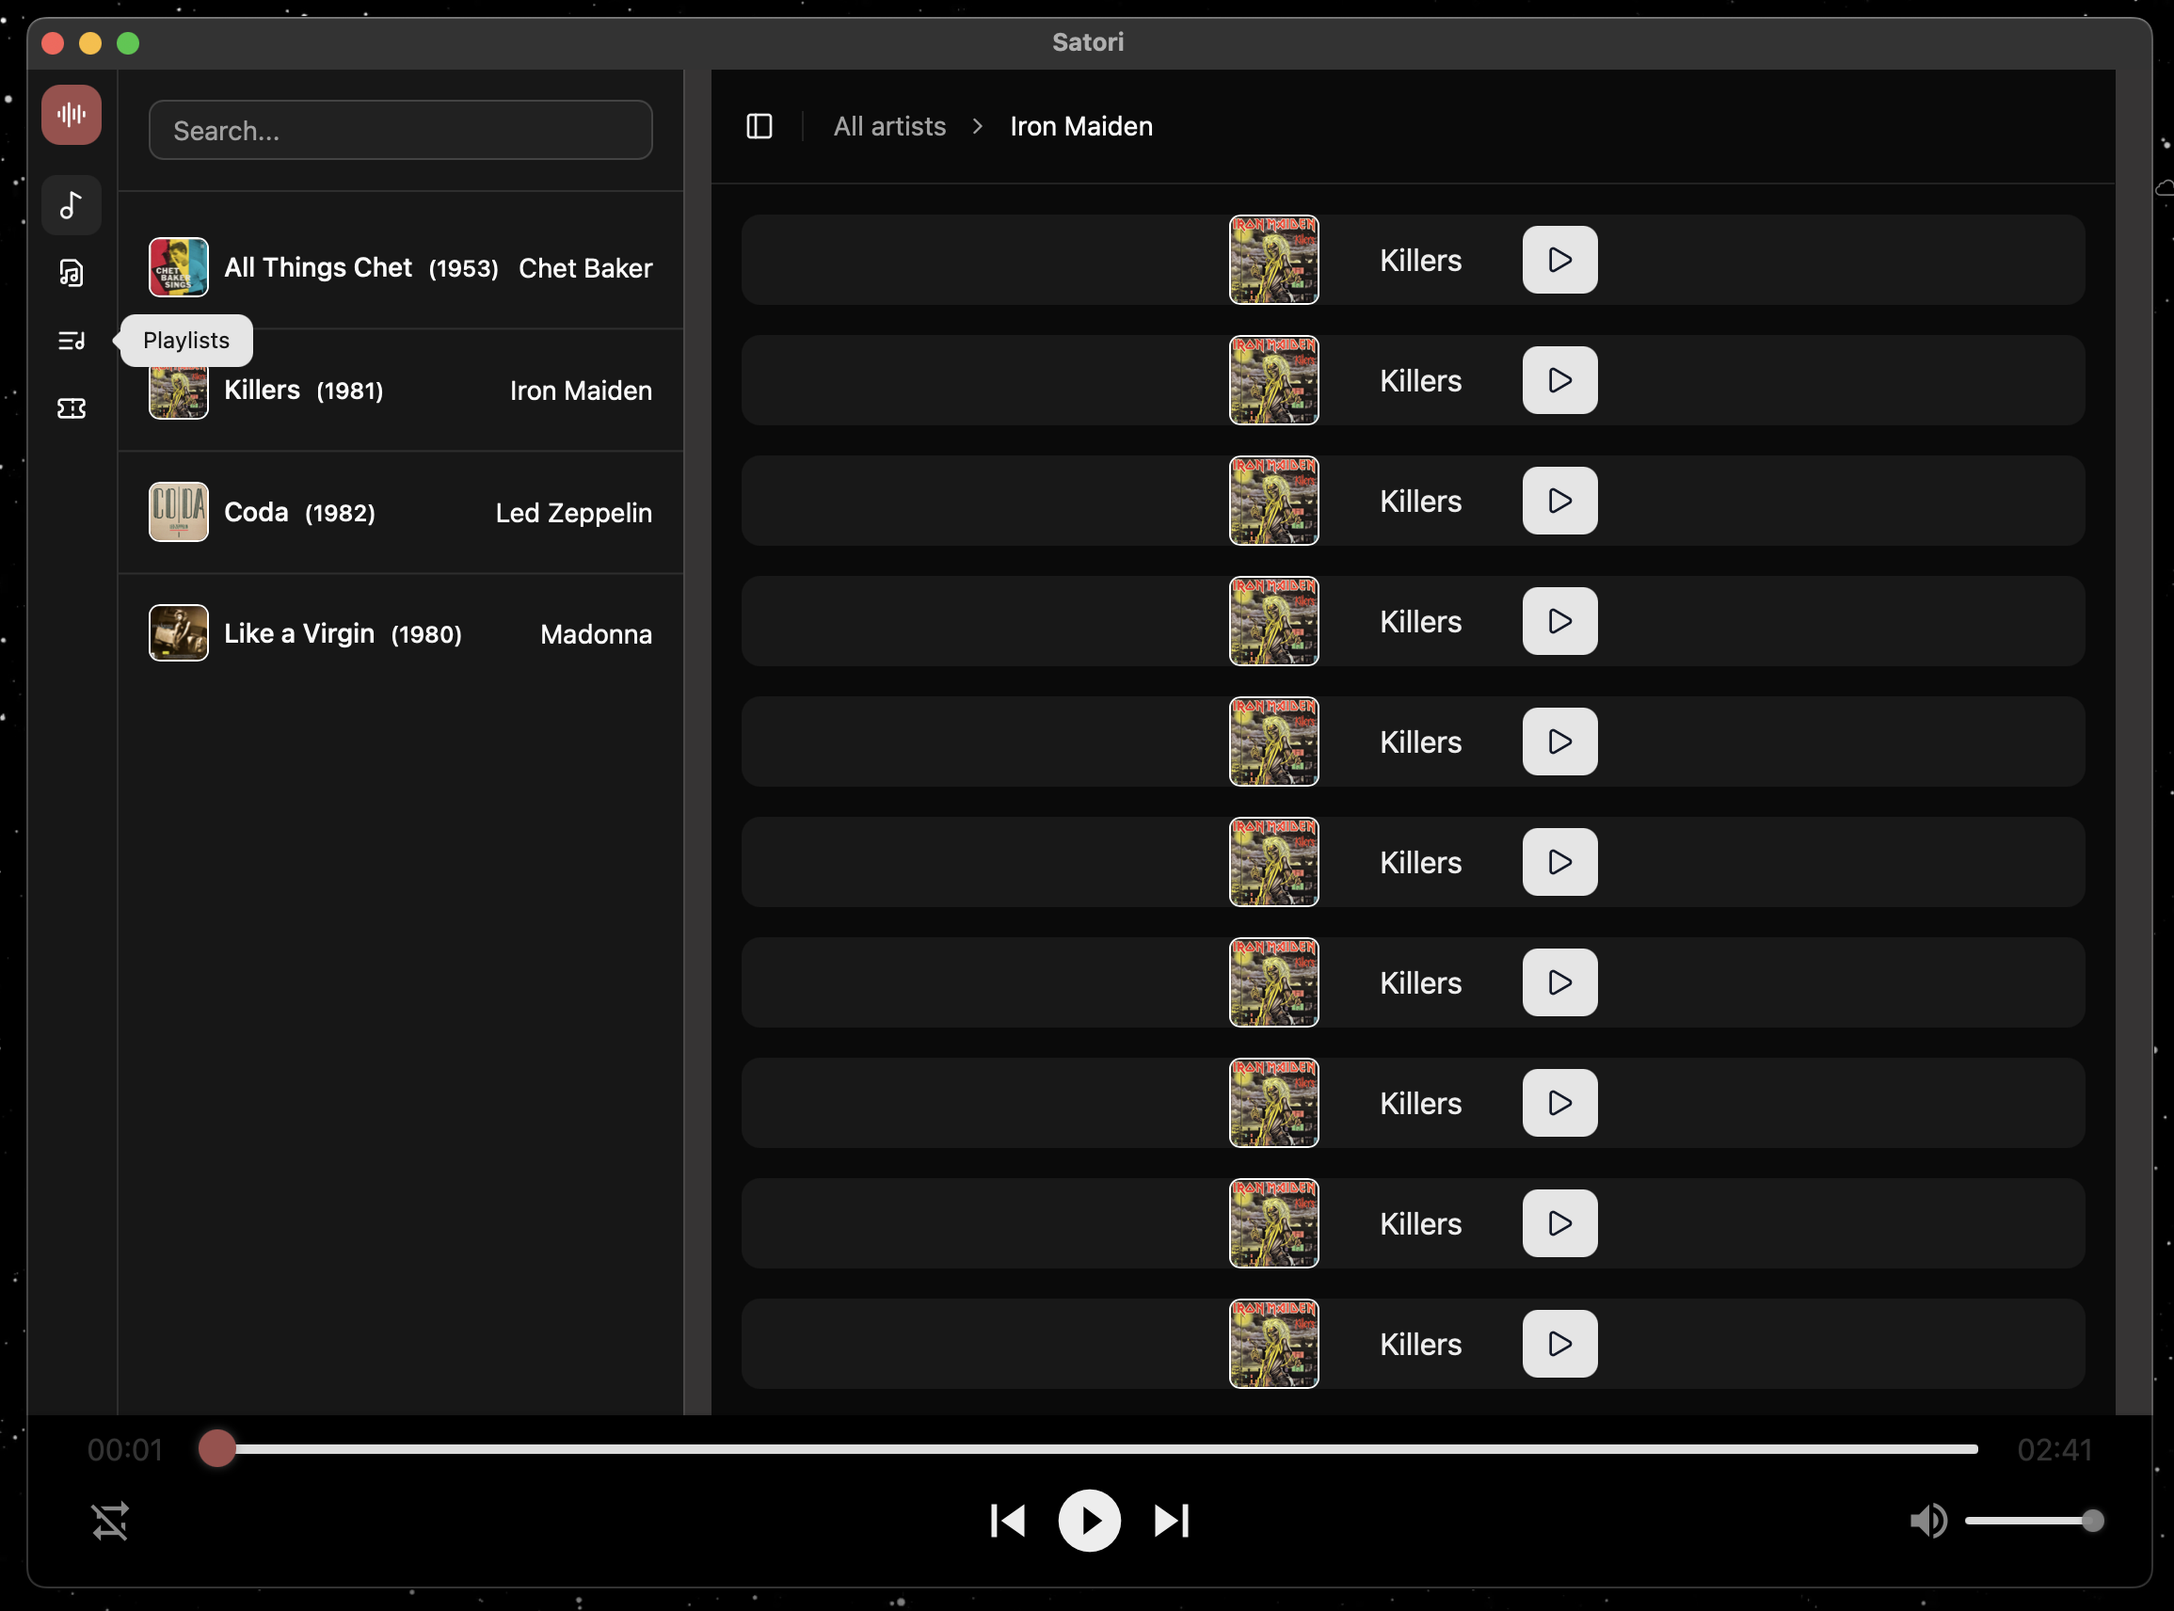
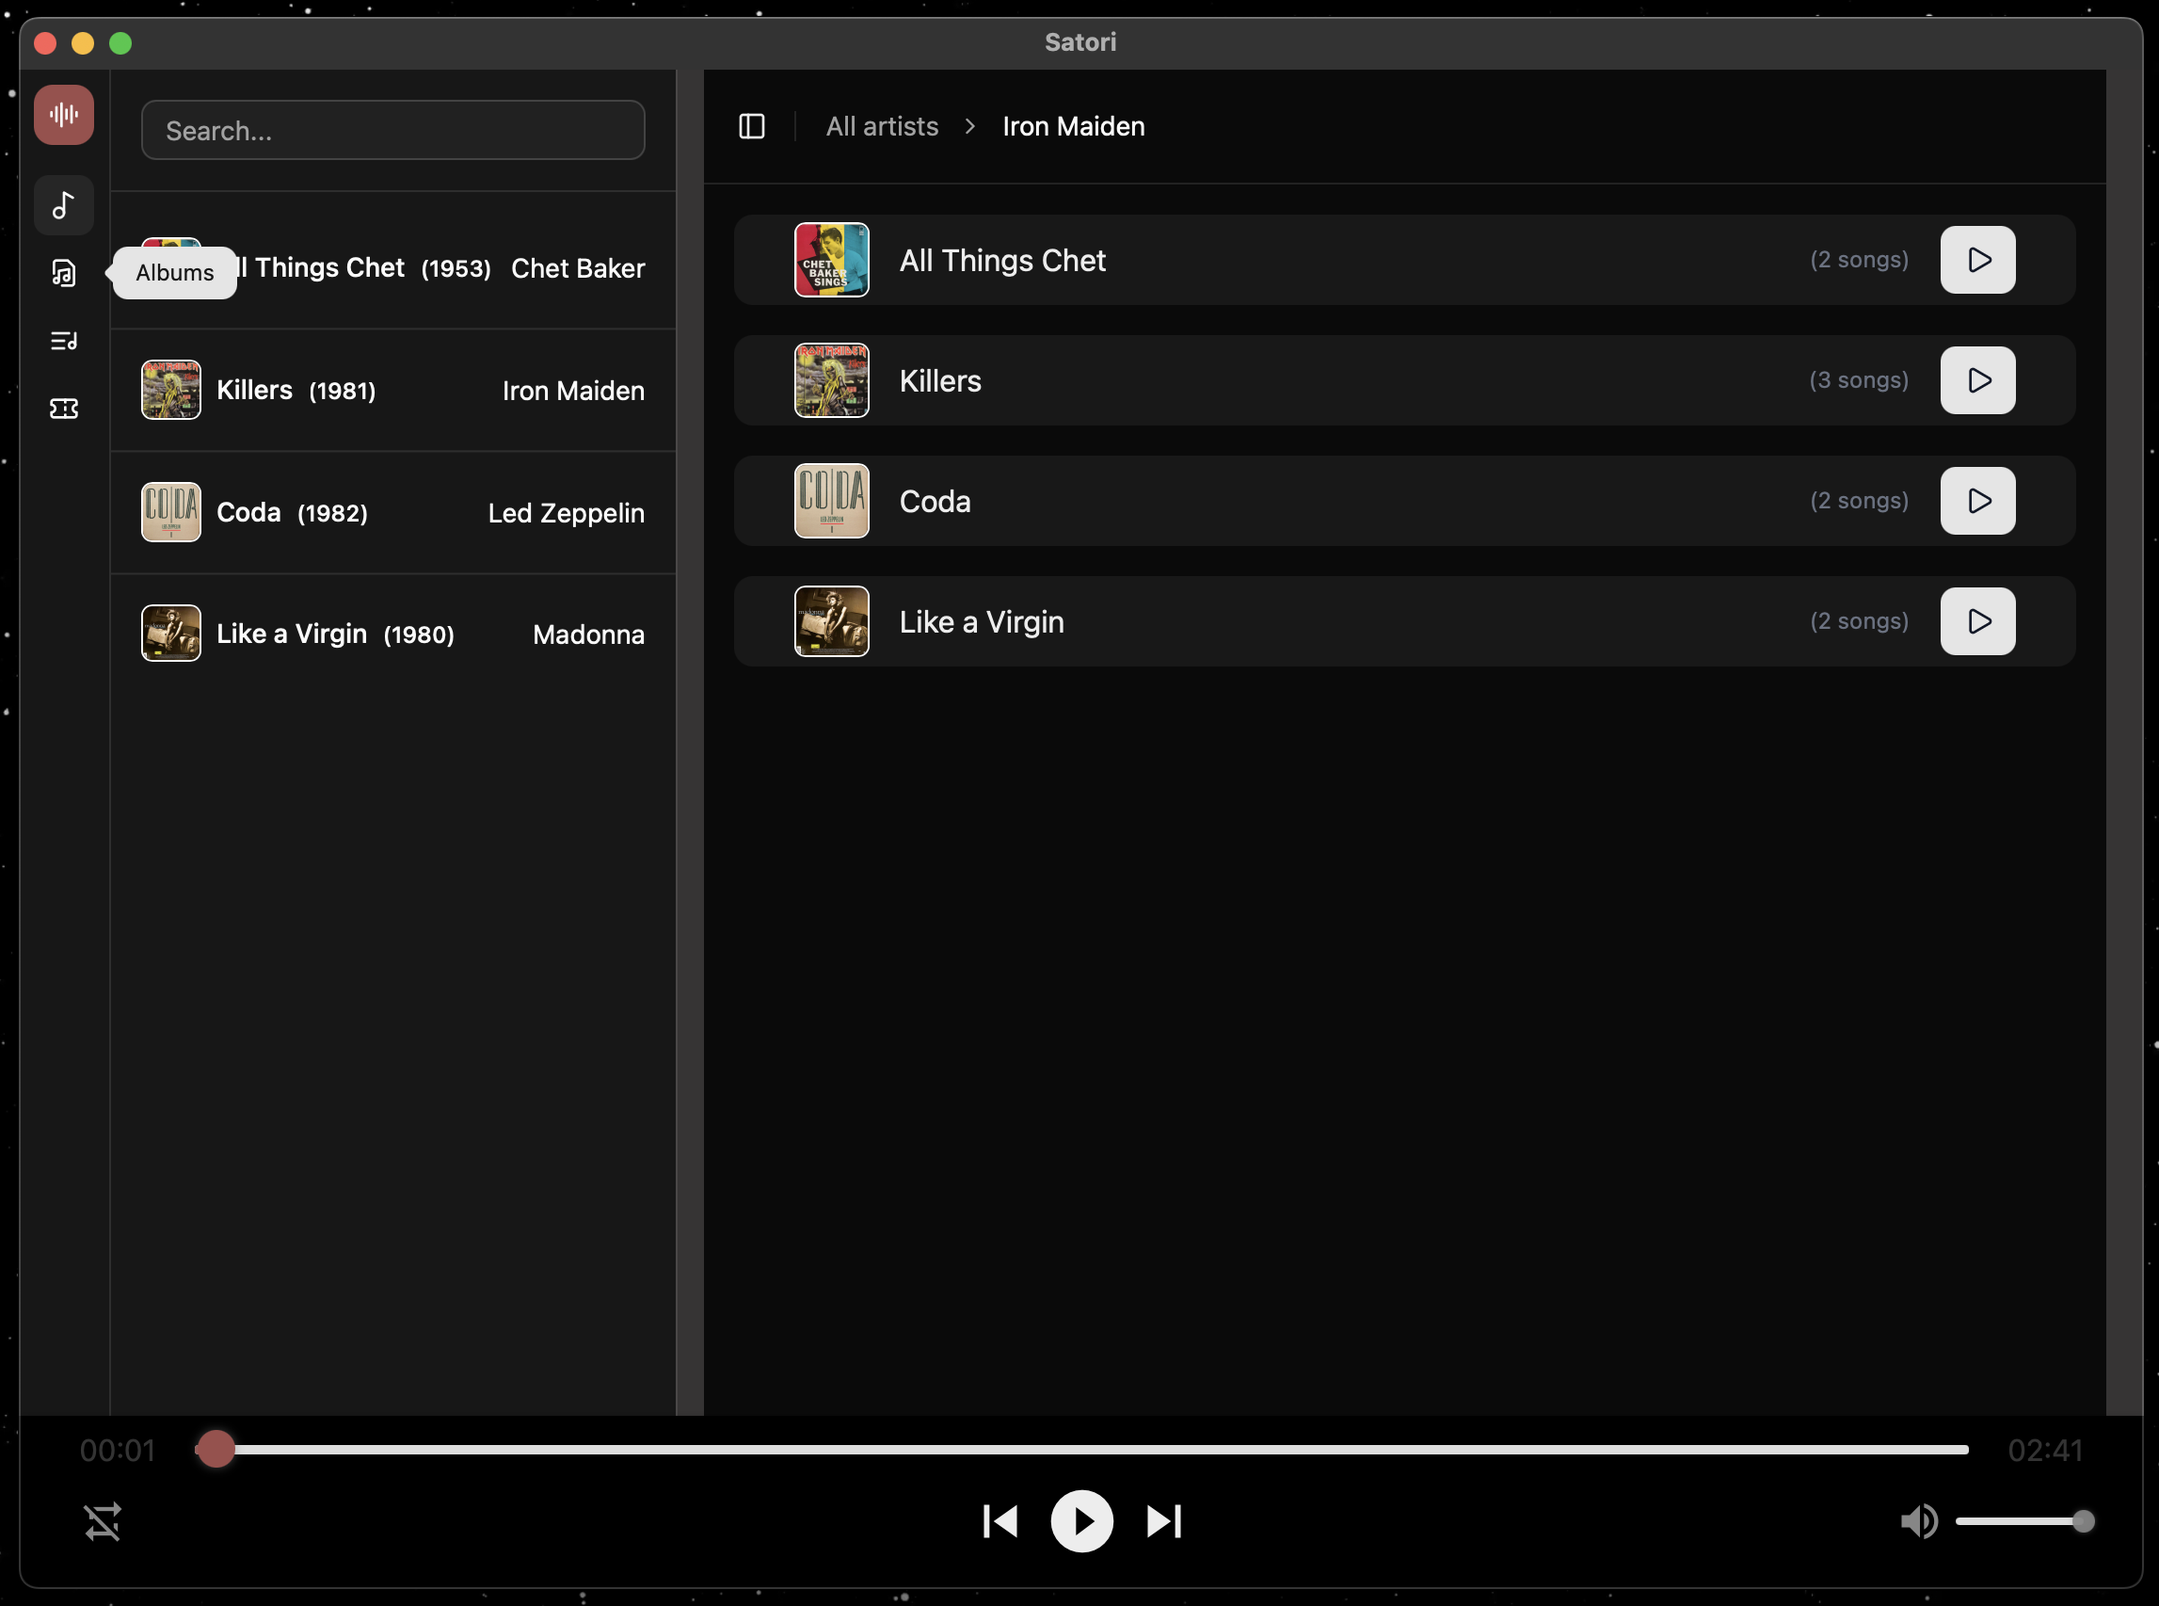
innerlist items structure, added a data- and object mapping

diff --git a/src/lib/data/sampleData.ts b/src/lib/data/sampleData.ts
@@ -37,98 +37,111 @@ const data = {
     {
       id: 1,
       name: "Chet Baker",
-      album: {
-        name: "All Things Chet",
-        releaseYear: "1953",
-        img: {
-          src: "src/assets/proxy-image.jpg",
-          alt: "Chet Baker Album: All Things Chet",
-        },
-        songs: {
-          1: {
-            title: "My Funny Valentine",
-            duration: "5:30",
-            src: "src/lib/data/musicFiles/Tell-Me-What_Denys-Brodovskyi.mp3",
+      albums: [
+        {
+          title: "All Things Chet",
+          releaseYear: "1953",
+          img: {
+            src: "src/assets/proxy-image.jpg",
+            alt: "Chet Baker Album: All Things Chet",
           },
-          2: {
-            title: "There Will Never Be Another You",
-            duration: "6:00",
-            src: "src/lib/data/musicFiles/Tell-Me-What_Denys-Brodovskyi.mp3",
-          },
+          songs: [
+            {
+              title: "My Funny Valentine",
+              duration: "5:30",
+              src: "src/lib/data/musicFiles/Tell-Me-What_Denys-Brodovskyi.mp3",
+            },
+            {
+              title: "There Will Never Be Another You",
+              duration: "6:00",
+              src: "src/lib/data/musicFiles/Tell-Me-What_Denys-Brodovskyi.mp3",
+            },
+          ],
         },
-      },
+      ],
     },
     {
       id: 2,
       name: "Iron Maiden",
-      album: {
-        name: "Killers",
-        releaseYear: "1981",
-        img: {
-          src: "src/assets/proxy-image-1.jpg",
-          alt: "Iron Maiden Album: Killers",
-        },
-        songs: {
-          1: {
-            title: "Rime Of The Ancient Mariner",
-            duration: "5:30",
-            src: "src/lib/data/musicFiles/tvari-tokyo-cafe_TVARI.mp3",
+      albums: [
+        {
+          title: "Killers",
+          releaseYear: "1981",
+          img: {
+            src: "src/assets/proxy-image-1.jpg",
+            alt: "Iron Maiden Album: Killers",
           },
-          2: {
-            title: "Seventh Son Of A Seventh Son",
-            duration: "6:00",
-            src: "src/lib/data/musicFiles/tvari-tokyo-cafe_TVARI.mp3",
-          },
+          songs: [
+            {
+              title: "Rime Of The Ancient Mariner",
+              duration: "5:30",
+              src: "src/lib/data/musicFiles/tvari-tokyo-cafe_TVARI.mp3",
+            },
+            {
+              title: "Seventh Son Of A Seventh Son",
+              duration: "6:00",
+              src: "src/lib/data/musicFiles/tvari-tokyo-cafe_TVARI.mp3",
+            },
+            {
+              title: "The Trooper",
+              duration: "4:00",
+              src: "src/lib/data/musicFiles/tvari-tokyo-cafe_TVARI.mp3",
+            },
+          ],
         },
-      },
+      ],
     },
     {
       id: 3,
       name: "Led Zeppelin",
-      album: {
-        name: "Coda",
-        releaseYear: "1982",
-        img: {
-          src: "src/assets/proxy-image-4.jpg",
-          alt: "Led Zeppelin album: Coda",
-        },
-        songs: {
-          1: {
-            title: "In The Evening",
-            duration: "5:30",
-            src: "src/lib/data/musicFiles/Future-design_penguinmusic.mp3",
+      albums: [
+        {
+          title: "Coda",
+          releaseYear: "1982",
+          img: {
+            src: "src/assets/proxy-image-4.jpg",
+            alt: "Led Zeppelin album: Coda",
           },
-          2: {
-            title: "I'm Gonna Leave You",
-            duration: "6:00",
-            src: "src/lib/data/musicFiles/Future-design_penguinmusic.mp3",
-          },
+          songs: [
+            {
+              title: "In The Evening",
+              duration: "5:30",
+              src: "src/lib/data/musicFiles/Future-design_penguinmusic.mp3",
+            },
+            {
+              title: "I'm Gonna Leave You",
+              duration: "6:00",
+              src: "src/lib/data/musicFiles/Future-design_penguinmusic.mp3",
+            },
+          ],
         },
-      },
+      ],
     },
     {
       id: 4,
       name: "Madonna",
-      album: {
-        name: "Like a Virgin",
-        releaseYear: "1980",
-        img: {
-          src: "src/assets/proxy-image-3.jpg",
-          alt: "Madonna Album: Like a Virgin",
-        },
-        songs: {
-          1: {
-            title: "Material Girl",
-            duration: "4:00",
-            src: "src/lib/data/musicFiles/tvari-tokyo-cafe_TVARI.mp3",
+      albums: [
+        {
+          title: "Like a Virgin",
+          releaseYear: "1980",
+          img: {
+            src: "src/assets/proxy-image-3.jpg",
+            alt: "Madonna Album: Like a Virgin",
           },
-          2: {
-            title: "Like a Virgin",
-            duration: "3:30",
-            src: "",
-          },
+          songs: [
+            {
+              title: "Material Girl",
+              duration: "4:00",
+              src: "src/lib/data/musicFiles/tvari-tokyo-cafe_TVARI.mp3",
+            },
+            {
+              title: "Like a Virgin",
+              duration: "3:30",
+              src: "",
+            },
+          ],
         },
-      },
+      ],
     },
   ],
 };

diff --git a/src/components/app-sidebar.tsx b/src/components/app-sidebar.tsx
@@ -1,6 +1,7 @@
 import * as React from "react";
 import { AudioLines } from "lucide-react";
 import data from "@/lib/data/sampleData";
+import { albumsList } from "@/lib/helpers/data_mapping";
 import { NavUser } from "@/components/settings/nav-user";
 import {
   Sidebar,
@@ -19,7 +20,6 @@ import {
 export function AppSidebar({ ...props }: React.ComponentProps<typeof Sidebar>) {
   // Now state is used to set item active -- use the url/router
   const [activeItem, setActiveItem] = React.useState(data.navMain[0]);
-  const [artists, setArtists] = React.useState(data.artists);
   const { setOpen } = useSidebar();
 
   return (
@@ -63,15 +63,6 @@ export function AppSidebar({ ...props }: React.ComponentProps<typeof Sidebar>) {
                       }}
                       onClick={() => {
                         setActiveItem(item);
-                        const artist = data.artists.sort(
-                          () => Math.random() - 0.5
-                        );
-                        setArtists(
-                          artist.slice(
-                            0,
-                            Math.max(5, Math.floor(Math.random() * 10) + 1)
-                          )
-                        );
                         setOpen(true);
                       }}
                       isActive={activeItem?.title === item.title}
@@ -99,31 +90,31 @@ export function AppSidebar({ ...props }: React.ComponentProps<typeof Sidebar>) {
         <SidebarContent>
           <SidebarGroup className="px-0">
             <SidebarGroupContent>
-              {artists.map((artist) => (
-                <a
-                  href="#"
-                  key={artist.id}
-                  className="hover:bg-sidebar-accent hover:text-sidebar-accent-foreground flex flex-col items-start gap-2 border-b p-4 text-sm leading-tight whitespace-nowrap last:border-b-0"
-                >
-                  <div className="flex w-full items-center gap-2">
-                    <span>
-                      <img
-                        src={artist.album.img.src}
-                        alt={artist.album.img.alt}
-                        className="w-8 border border-white rounded-sm"
-                      />
-                    </span>
-                    <span className="font-medium">
-                      {artist.album.name}
-                      <span className="ml-2 text-xs">
-                        ({artist.album.releaseYear})
+              {albumsList.map(
+                ({ imgSrc, imgAlt, albumTitle, releaseYear, artistName }) => (
+                  <a
+                    href="#"
+                    key={albumTitle}
+                    className="hover:bg-sidebar-accent hover:text-sidebar-accent-foreground flex flex-col items-start gap-2 border-b p-4 text-sm leading-tight whitespace-nowrap last:border-b-0"
+                  >
+                    <div className="flex w-full items-center gap-2">
+                      <span>
+                        <img
+                          src={imgSrc}
+                          alt={imgAlt}
+                          className="w-8 border border-white rounded-sm"
+                        />
                       </span>
-                    </span>
+                      <span className="font-medium">
+                        {albumTitle}
+                        <span className="ml-2 text-xs">({releaseYear})</span>
+                      </span>
 
-                    <span className="ml-auto">{artist.name}</span>
-                  </div>
-                </a>
-              ))}
+                      <span className="ml-auto">{artistName}</span>
+                    </div>
+                  </a>
+                )
+              )}
             </SidebarGroupContent>
           </SidebarGroup>
         </SidebarContent>

diff --git a/src/app/dashboard/InnerList.tsx b/src/app/dashboard/InnerList.tsx
@@ -17,6 +17,7 @@ import {
   useSidebar,
 } from "@/components/ui/sidebar";
 import type { Artist } from "@/lib/data/artists/typesArtists";
+import { albumInfo } from "@/lib/helpers/data_mapping";
 
 type Props = {
   listItems: string[];
@@ -63,23 +64,28 @@ export function InnerList({ listItems, artists }: Props) {
         </header>
 
         <div className="flex flex-1 flex-col gap-4 p-4">
-          {Array.from({ length: 14 }).map((_, index) => (
-            <div
-              key={index}
-              className="bg-muted/50 aspect-video h-12 w-full rounded-lg"
-            >
-              <div className="flex items-center justify-center gap-8">
-                <img
-                  src={artists[1].album.img.src}
-                  alt={artists[1].album.img.alt}
-                  className="w-12 border border-white rounded-sm"
-                />
-                <p>{artists[1].album.name}</p>
-                <Button className="group flex items-center gap-2 cursor-pointer">
-                  <Play className="w-4 h-4 text-gray-900 group-hover:text-gray-500" />
-                  <span className="sr-only">Play</span>
-                </Button>
-              </div>
+          {albumInfo.map((artist) => (
+            <div className="bg-muted/50 aspect-video h-12 w-full rounded-lg flex items-center">
+              {artist.albums.map((album) => (
+                <div className="flex items-center justify-between gap-4 ml-8 mr-8 w-full">
+                  <img
+                    src={album.imgSrc}
+                    alt={album.imgAlt}
+                    className="w-10 border border-white rounded-sm"
+                  />
+                  <div className="flex gap-2 flex-1 justify-between items-center">
+                    <p>{album.albumTitle}</p>
+                    <span className="text-xs text-gray-500">
+                      ({album.numberOfSongs} songs)
+                    </span>
+                  </div>
+
+                  <Button className="group flex items-center gap-2 cursor-pointer">
+                    <Play className="w-4 h-4 text-gray-900 group-hover:text-gray-500" />
+                    <span className="sr-only">Play</span>
+                  </Button>
+                </div>
+              ))}
             </div>
           ))}
         </div>

diff --git a/src/app/AppWrapper.tsx b/src/app/AppWrapper.tsx
@@ -3,14 +3,8 @@ import App from "./App";
 import AudioPlayer from "react-h5-audio-player";
 import "react-h5-audio-player/lib/styles.css";
 import "@/css/index.css";
-import data from "@/lib/data/sampleData";
+import { tracks } from "@/lib/helpers/data_mapping";
 import useSkipBtnTooltip from "@/components/controls/skipBtnTooltip";
-
-const tracks = data.artists.map((artist) => {
-  return {
-    src: artist.album.songs[1].src ?? "",
-  };
-});
 
 const AppWrapper = () => {
   const [currentTrackIdx, setCurrentTrackIdx] = React.useState(0);
@@ -27,7 +21,7 @@ const AppWrapper = () => {
       <div className="audio_wrapper fixed bottom-0 left-0 w-full z-[9999] shadow-lg">
         <AudioPlayer
           autoPlay
-          src={tracks[currentTrackIdx].src}
+          src={tracks[currentTrackIdx]}
           onPlay={() => console.log("Playing!")}
           onEnded={() => setCurrentTrackIdx((idx) => (idx + 1) % tracks.length)}
           progressJumpSteps={{ forward: 0, backward: 0 }}

diff --git a/src/lib/helpers/data_mapping.tsx b/src/lib/helpers/data_mapping.tsx
@@ -1,0 +1,31 @@
+import data from "@/lib/data/sampleData";
+
+export const tracks = data.artists.flatMap((artist) =>
+  artist.albums.flatMap((album) =>
+    Object.values(album.songs).map((song) => song.src)
+  )
+);
+
+// Used to display album information per artist
+export const albumInfo = data.artists.map((artist) => ({
+  artistName: artist.name,
+  albums: artist.albums.map((album) => ({
+    imgSrc: album.img.src,
+    imgAlt: album.img.alt,
+    albumTitle: album.title,
+    releaseYear: album.releaseYear,
+    numberOfSongs: album.songs.length,
+  })),
+}));
+
+// Used in the sidebar to display list of albums
+export const albumsList = data.artists.flatMap((artist) =>
+  artist.albums.map((album) => ({
+    artistName: artist.name,
+    imgSrc: album.img.src,
+    imgAlt: album.img.alt,
+    albumTitle: album.title,
+    releaseYear: album.releaseYear,
+    numberOfSongs: album.songs.length,
+  }))
+);
